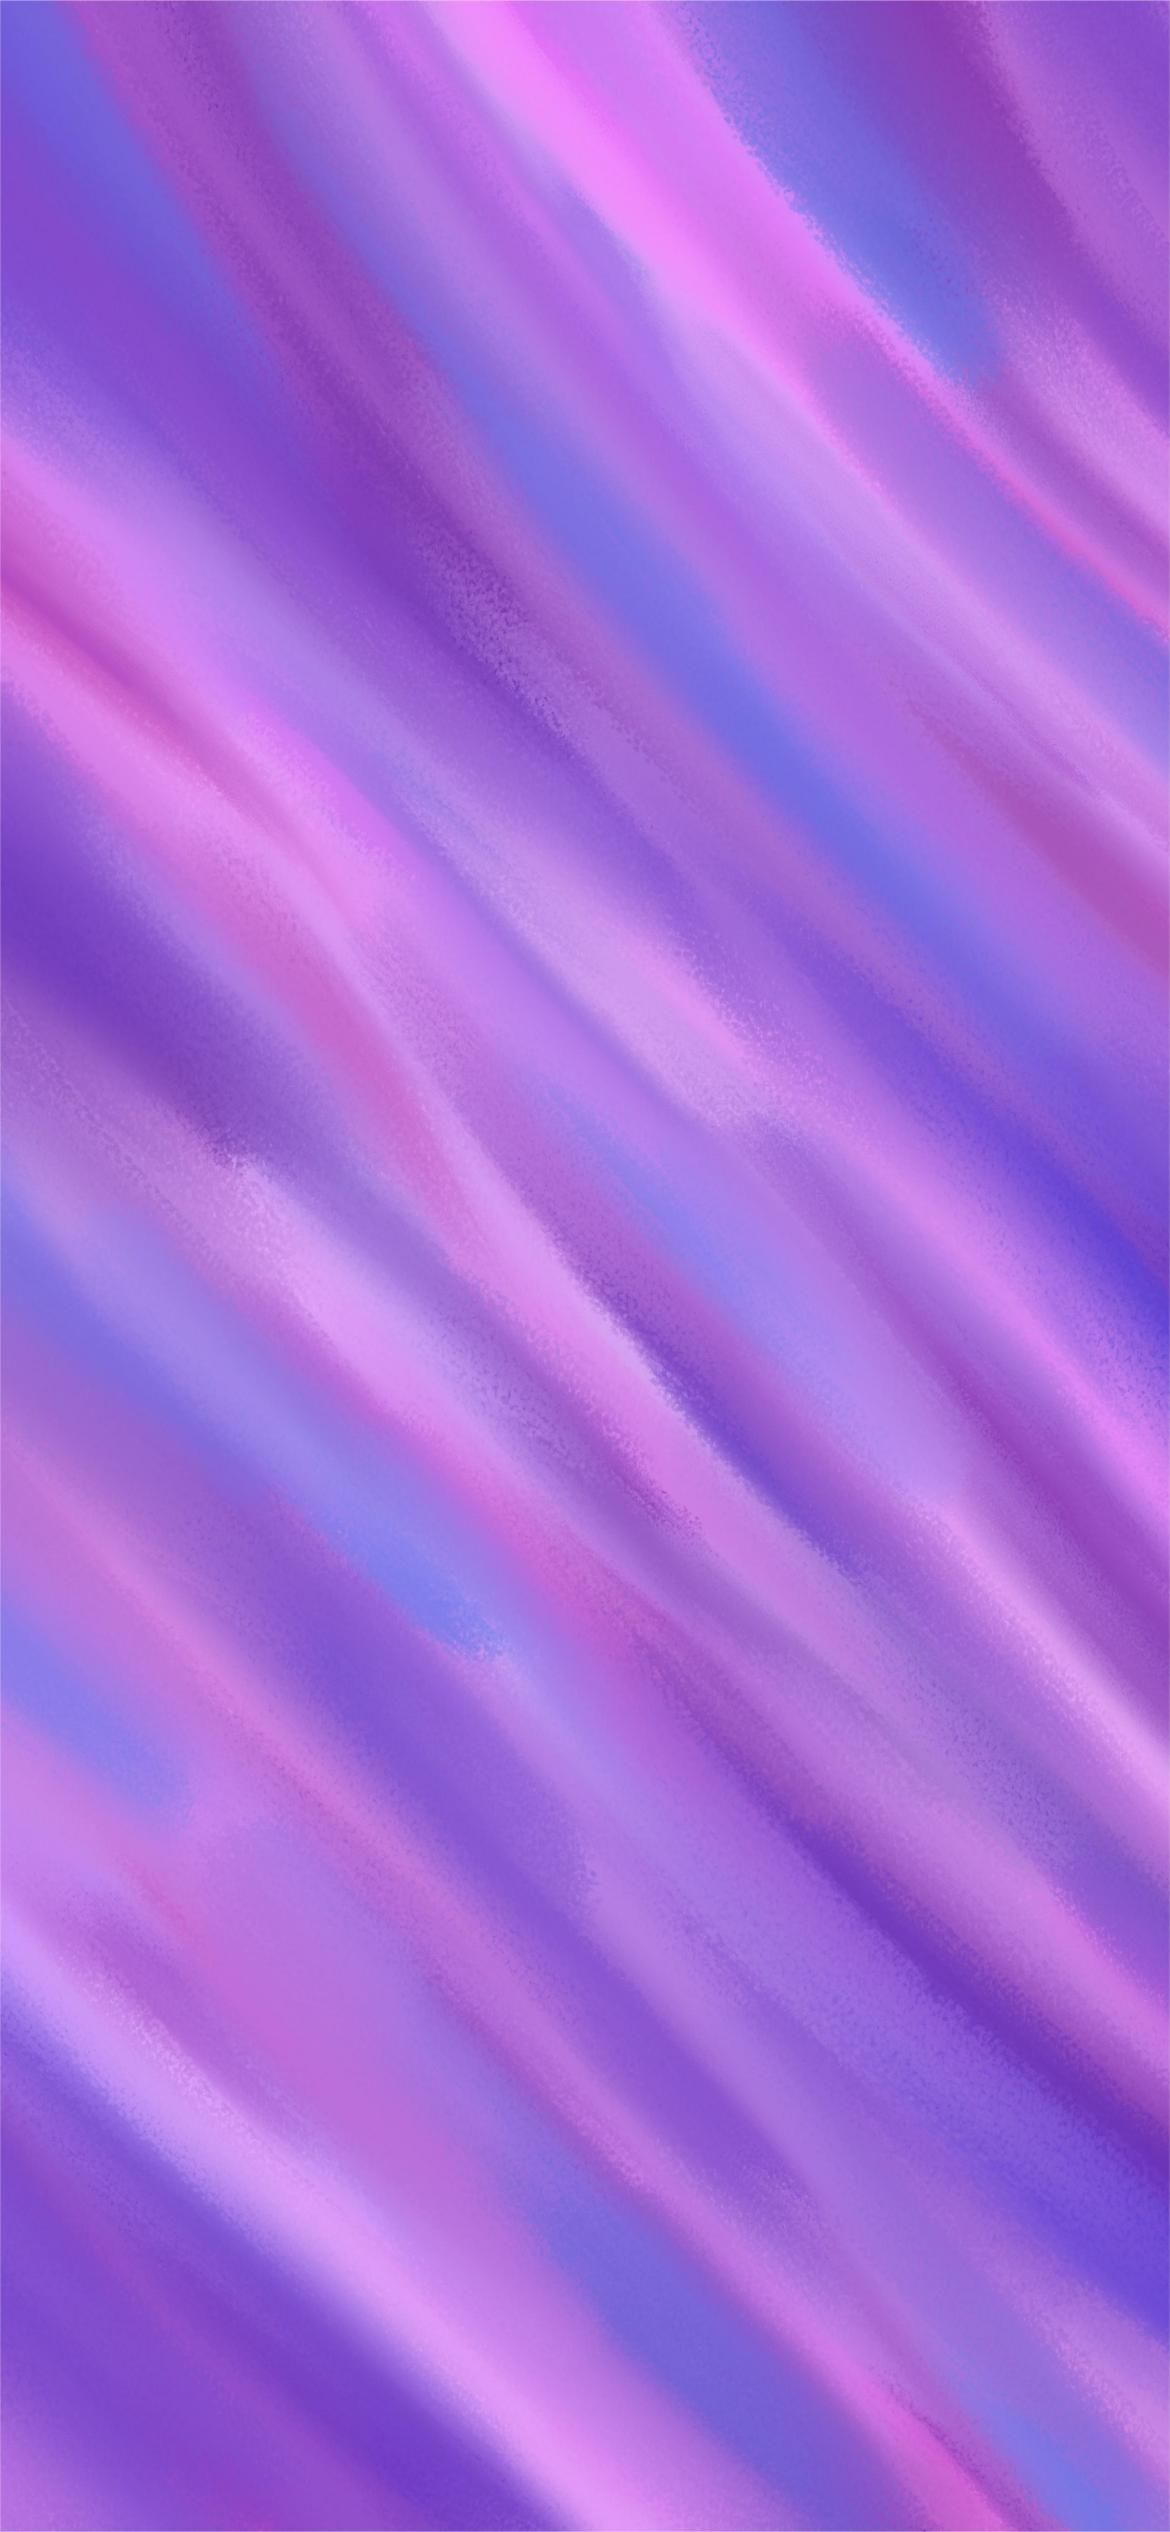
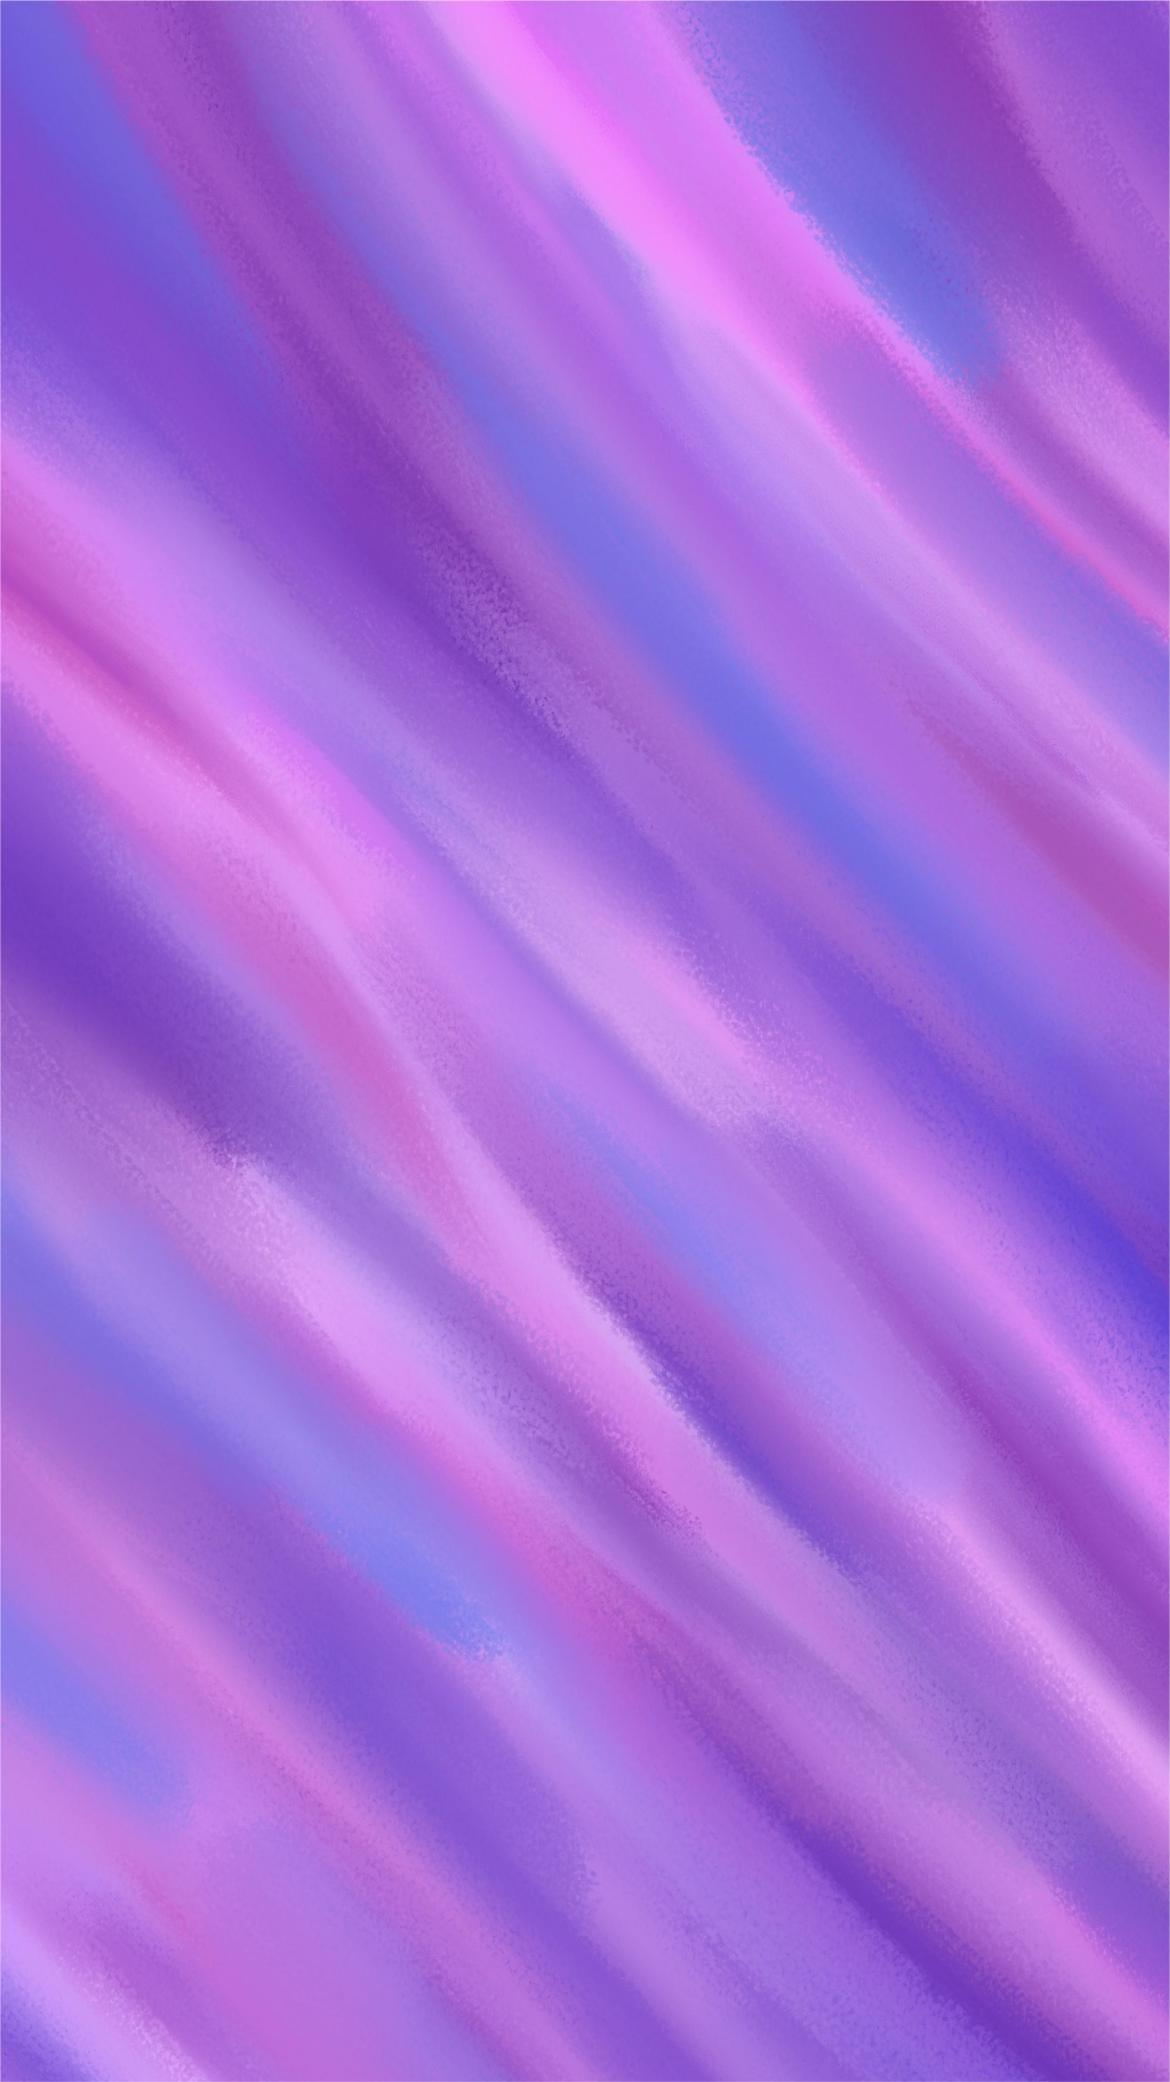
1129

diff --git a/Bestwishes.html b/Bestwishes.html
@@ -85,15 +85,15 @@
           <div class="timepoint21"></div>
           <div class="ly-box21">
               <div class="ly-txt21">
-                  越是畏怯的的事情，
+                  
               </div>
               <div class="ly-txt22">
                  <p>                           </p>
-                 <p> 就越要尽早尽快地去做，在那些莫可名状的忧虑发酵蔓延开来以前，</p>
-                 <p> 先干净利落地给它一个开头。</p>
-                 <p> 自然而然就会发现，在所有拖延的时间里，</p>
-                 <p> 我们想象中的不安是被无限放大的。</p>
-                 <p> 船到了桥头，你会看到接下来的路。</p>
+                 <p></p>
+                 <p></p>
+                 <p></p>
+                 <p></p>
+                 <p></p>
                  <p>                        </p>
               </div>
               <div class="ly-imgbox21">
@@ -104,12 +104,12 @@
 
           <div class="ly-box22">
               <div class="ly-txt23">
-                我觉得，什么都要，
+                
               </div>
               <div class="ly-txt24">
                   <p>                    </p>
-                  <p> 大概就意味着把你自己切成很多小块，</p>
-                  <p> 顾及每个人的需求，但唯独忽略你自己的。</p>
+                  <p></p>
+                  <p></p>
                   <p>                  </p>
               </div>
               <div class="ly-imgbox22">
@@ -120,11 +120,11 @@
 
            <div class="ly-box23">
               <div class="ly-txt25">
-                当你为错过太阳而哭泣的时候，
+                
               </div>
               <div class="ly-txt26">
                   <p>                     </p>
-                  <p> 你也要再错过群星了。</p>
+                  <p></p>
                   <p>                        </p>
               </div>
               <div class="ly-imgbox23">
@@ -141,14 +141,14 @@
           <div class="timepoint11"></div>
           <div class="ly-box81">
               <div class="ly-txt11">
-                或许
+                
               </div>
               <div class="ly-txt82" style="top:8%">
                 <p>                </p>
-                <p>真正能抵达这个世界的，能确切抵达梦想的，</p>
-				<p>不是不顾一切投入想象的狂热，</p>
-                <p>而是务实的、谦卑的，甚至你自己都看不起的可怜的隐忍。 </p>
-                <p>                   蔡崇达《皮囊》</p>
+                <p></p>
+				<p></p>
+                <p></p>
+                <p></p>
               </div>
               <div class="ly-imgbox81">
                 <img class="ly-img81" src="img/4.jpg">
@@ -158,7 +158,7 @@
 
           <div class="ly-box82">
               <div class="ly-txt13">
-                  最后想说，
+                  
               </div>
               <div class="ly-txt84">
                  <p>    和煦如你，可扫云烟</p>
@@ -168,7 +168,7 @@
                  <p>    愿你活成自己想要的样子</p>
                  <p>    愿所有的温暖与你如期而至</p>
                  <p>    路上会有阴影，但抬头总能看到阳光</p>
-                 <p>    对了，愿我所愿，皆能实现</p>
+                 <p>    愿我所愿，皆能实现</p>
               </div>
           </div>
           <div class="ly-triangle82"></div>

diff --git a/css/memories.css b/css/memories.css
@@ -11,12 +11,25 @@
 	height: auto;
 	max-width: 100%; 
 }*/
+@media screen and (min-aspect-ratio: 10/9){
+	.bgcolor {
+		background: #ee9ca7;
+		background: -webkit-linear-gradient(top left, #ee9ca7 0%, #ee9ca7 100%);
+		background: linear-gradient(to bottom right, #ee9ca7 0%, #ee9ca7 100%);
+		background: url('../img/07.jpg');
+		background-size: 100%;
+		opacity: 0.9;
+	}
+	}
+@media screen and (max-aspect-ratio: 3/4){
 .bgcolor {
 	background: #ee9ca7;
     background: -webkit-linear-gradient(top left, #ee9ca7 0%, #ee9ca7 100%);
     background: linear-gradient(to bottom right, #ee9ca7 0%, #ee9ca7 100%);
-	background: url('../img/02.jpg');
+	background: url('../img/22.jpg');
+	background-size: 100%;
     opacity: 0.9;
+}
 }
 .bg-bubbles {
   position: absolute;
@@ -136,7 +149,7 @@
 	.ly-box01 {
 		width:50px;
 		height:50px;
-		background-color:#FFF;
+		background-color:rgb(132, 33, 244);
 		border-radius: 25px;
 		position: absolute;
 		left: 48%;
@@ -147,13 +160,12 @@
 		animation:box_to_point 18.5s 0s,bounce 2.5s 18.5s;
 	}
 }
-
 /*移动端*/
 @media screen and (max-aspect-ratio: 3/4){
 	.ly-box01 {
 		width:50px;
 		height:50px;
-		background-color:#FFF;
+		background-color:rgb(132, 33, 244);
 		border-radius: 25px;
 		position: absolute;
 		left: 48%;

diff --git a/BirthdayCake.html b/BirthdayCake.html
@@ -191,7 +191,7 @@
 </svg>
 <div class="name" style="z-index: 100;">Dear Helen</div>
 <div class="happy" style="z-index: 100;">
-    <img src="img/2(1).png">
+    <img src="img/2.png">
 </div>
 <div class="button-style1">
     <a href="Bestwishes.html" class="lk1">

diff --git a/css/cake.css b/css/cake.css
@@ -318,11 +318,11 @@ html, body {
 .happy {
     position: absolute;
     opacity:0;
-    width: 300px;
+    width: 340px;
     height: 137px;
     overflow: hidden;
     left: 50%;
-    margin-left: -155px;
+    margin-left: -160px;
     top: 30%;
 
 
